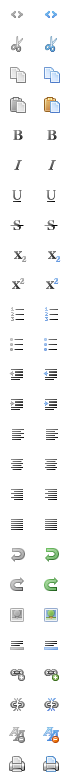
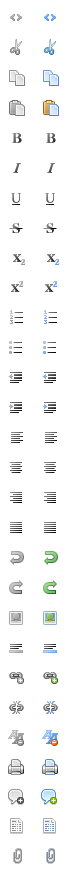
Forgotten commit

Changed region(s): [[0.5882, 0.0, 0.8824, 1.0], [0.1176, 0.0, 0.3824, 1.0]]

diff --git a/assets/javascripts/tinyeditor.js b/assets/javascripts/tinyeditor.js
@@ -34,8 +34,11 @@ var TinyEditor = {};
         unorderedlist: [11, 'Insert Unordered List', 'a', 'insertunorderedlist'],
         unformat: [24, 'Remove Formatting', 'a', 'removeformat'],
         unlink: [23, 'Remove Hyperlink', 'a', 'unlink'],
-        vote: [ 26, 'Vote', 'a', 'vote' ],
-        comments: [ 27, 'Comments', 'insertHtml', '{{comments}}{{comment_form}}' ]
+
+        // This is only for edit wiki
+        comments:   [ 26, 'Comments', 'insertHtml', '{{comments}}{{comment_form}}' ],
+        page:       [ 27, 'Page', 'addWikiLink' ],
+        attachment: [ 28, 'Attachment', 'addAttachment' ]
     },
     offset = -30;
 
@@ -78,6 +81,19 @@ var TinyEditor = {};
                 t.insertHtml(x[3]);
               };
             }
+
+            if (x[2] === 'addAttachment') {
+              return function() {
+                t.addAttachment();
+              };
+            }
+
+            if (x[2] === 'addWikiLink') {
+              return function() {
+                t.addWikiLink();
+              };
+            }
+
             return function () {
                 t.insert(x[4], x[5], x[3]);
             };
@@ -165,7 +181,7 @@ var TinyEditor = {};
                     sel.options[x] = new Option(style[0], style[1]);
                 }
                 h.appendChild(sel);
-            } else if (c[id]) {
+            } else if (c[id] && ((c[id][0] >= 26 && window.editWiki) || (c[id][0] < 26))) {
                 div = document.createElement('div');
                 x = c[id];
                 pos = x[0] * offset;
@@ -270,6 +286,57 @@ var TinyEditor = {};
         if (val !== null && val !== '') {
             this.e.execCommand(cmd, 0, val);
         }
+    };
+    edit.prototype.addWikiLink = function() {
+      /** Show ajax modal with selection of attachments */
+      var html = $('<ul/>');
+      var that = this;
+      var length = window.wikiPages.length;
+
+      for (var index = 0; index < length; index++) {
+        var li = $('<li/>');
+        var a  = $('<a/>').attr('href', '#');
+        var file = window.wikiPages[index];
+        a.html(file);
+        a.on('click', function(evt) {
+          evt.preventDefault();
+          that.e.execCommand('insertText', 0, '[[' + $(this).html() + ']] ');
+          that.el.value = that.e.body.innerHTML;
+          hideModal();
+        });
+        li.append(a);
+        html.append(li);
+      }
+
+      html.prepend('<h3 class="title">' + window.wikipageTitle + '</h3>');
+      $('#ajax-modal').html(html).promise().done(function() {
+        showModal('ajax-modal', '400px');
+      });
+    };
+    edit.prototype.addAttachment = function() {
+      /** Show ajax modal with selection of attachments */
+      var html = $('<ul/>');
+      var that = this;
+
+      $('.icon-attachment').each(function() {
+        var li = $('<li/>');
+        var a  = $('<a/>').attr('href', '#');
+        var file = $(this).html();
+        a.html(file);
+        a.on('click', function(evt) {
+          evt.preventDefault();
+          that.e.execCommand('insertText', 0, 'attachment:' + file);
+          that.el.value = that.e.body.innerHTML;
+          hideModal();
+        });
+        li.append(a);
+        html.append(li);
+      });
+
+      html.prepend('<h3 class="title">' + window.attachmentTitle + '</h3>');
+      $('#ajax-modal').html(html).promise().done(function() {
+        showModal('ajax-modal', '400px');
+      });
     };
     edit.prototype.insertHtml = function (val) {
       if (this.ie) {

diff --git a/assets/javascripts/toolbar.ext.js b/assets/javascripts/toolbar.ext.js
@@ -1,0 +1,73 @@
+jsToolBar.prototype.elements.addAttachment = {
+  type: 'button',
+  title: 'Add files',
+  fn: {
+    wiki: function() {
+      /** Show ajax modal with selection of attachments */
+      var html = $('<ul/>');
+      var that = this;
+
+      $('.icon-attachment').each(function() {
+        var li = $('<li/>');
+        var a  = $('<a/>').attr('href', '#');
+        var file = $(this).html();
+        a.html(file);
+        a.on('click', function(evt) {
+          evt.preventDefault();
+          that.encloseLineSelection('', 'attachment:' + file);
+          hideModal();
+        });
+        li.append(a);
+        html.append(li);
+      });
+
+      html.prepend('<h3 class="title">' + window.attachmentTitle + '</h3>');
+      $('#ajax-modal').html(html).promise().done(function() {
+        showModal('ajax-modal', '400px');
+      });
+    }
+  }
+};
+
+jsToolBar.prototype.elements.addWikiLink = {
+  type: 'button',
+  title: 'Add wiki link',
+  fn: {
+    wiki: function() {
+      /** Show ajax modal with selection of attachments */
+      var html = $('<ul/>');
+      var that = this;
+      var length = window.wikiPages.length;
+
+      for (var index = 0; index < length; index++) {
+        var li = $('<li/>');
+        var a  = $('<a/>').attr('href', '#');
+        var file = window.wikiPages[index];
+        a.html(file);
+        a.on('click', function(evt) {
+          evt.preventDefault();
+          that.encloseLineSelection('', '[[' + $(this).html() + ']]');
+          hideModal();
+        });
+
+        li.append(a);
+        html.append(li);
+      }
+
+      html.prepend('<h3 class="title">' + window.wikipageTitle + '</h3>');
+      $('#ajax-modal').html(html).promise().done(function() {
+        showModal('ajax-modal', '400px');
+      });
+    }
+  }
+};
+
+jsToolBar.prototype.elements.addComment = {
+  type: 'button',
+  title: 'Add comment',
+  fn: {
+    wiki: function() {
+      this.encloseLineSelection('', '{{comments}}{{comment_form}}');
+    }
+  }
+};

diff --git a/assets/stylesheets/toolbar.ext.css b/assets/stylesheets/toolbar.ext.css
@@ -1,0 +1,9 @@
+.jstb_addAttachment {
+  background-image: url(../images/attach.png);
+}
+.jstb_addWikiLink {
+  background-image: url(../images/document.png);
+}
+.jstb_addComment {
+  background-image: url(../images/comment.png);
+}

diff --git a/lib/redmine_tiny_mce/patches/formatter_helper_patch.rb b/lib/redmine_tiny_mce/patches/formatter_helper_patch.rb
@@ -1,0 +1,26 @@
+module RedmineTinyMce
+  module Patches
+    module FormatterHelperPatch
+      def self.included(base)
+        base.class_eval do
+          unloadable
+          base.send(:include, InstanceMethods)
+          alias_method_chain :heads_for_wiki_formatter, :extras
+        end
+      end
+
+      module InstanceMethods
+        def heads_for_wiki_formatter_with_extras
+          value = @heads_for_wiki_formatter_with_extras
+          heads_for_wiki_formatter_without_extras
+          if !value && params[:action] == 'edit' && params[:controller] == 'wiki'
+            content_for :header_tags do
+              javascript_include_tag('toolbar.ext.js', :plugin => :redmine_tiny_mce) +
+              stylesheet_link_tag('toolbar.ext.css', :plugin => :redmine_tiny_mce)
+            end
+          end
+        end
+      end
+    end
+  end
+end

diff --git a/init.rb b/init.rb
@@ -7,6 +7,19 @@
 require 'redmine'
 require 'redmine_tiny_mce'
 
+ActionDispatch::Reloader.to_prepare do
+  require_dependency 'redmine/wiki_formatting/markdown/helper'
+  require_dependency 'redmine/wiki_formatting/textile/helper'
+
+  unless Redmine::WikiFormatting::Markdown::Helper.included_modules.include?(RedmineTinyMce::Patches::FormatterHelperPatch)
+    Redmine::WikiFormatting::Markdown::Helper.send(:include, RedmineTinyMce::Patches::FormatterHelperPatch)
+  end
+
+  unless Redmine::WikiFormatting::Textile::Helper.included_modules.include?(RedmineTinyMce::Patches::FormatterHelperPatch)
+    Redmine::WikiFormatting::Textile::Helper.send(:include, RedmineTinyMce::Patches::FormatterHelperPatch)
+  end
+end
+
 Redmine::Plugin.register :redmine_tiny_mce do
   name 'Redmine TinyMce plugin'
   author 'Strnadj <jan.strnadek@gamil.com>'

diff --git a/lib/redmine_tiny_mce/wiki_formatting/helper.rb b/lib/redmine_tiny_mce/wiki_formatting/helper.rb
@@ -17,7 +17,7 @@ module RedmineTinyMce
               controls:['bold','italic','underline','strikethrough','|','subscript','superscript','|',
                     'orderedlist','unorderedlist','|','outdent','indent','|','leftalign',
                     'centeralign','rightalign','blockjustify','|','unformat','|','undo','redo', 'n',
-                    'font','size','style','|','image','hr','link','unlink', '|', 'print', '|', 'vote', 'comments'],
+                    'font','size','style','|','image','hr','link','unlink', '|', 'print', '|', 'comments', 'page', 'attachment' ],
               footer:true,
               fonts:['Verdana','Arial','Georgia','Trebuchet MS'],
               xhtml:true,

diff --git a/lib/redmine_tiny_mce/hooks/view_wiki_form_bottom.rb b/lib/redmine_tiny_mce/hooks/view_wiki_form_bottom.rb
@@ -1,0 +1,16 @@
+module RedmineTinyMce
+  module Hooks
+    class ViewWikiFormBottom < Redmine::Hook::ViewListener
+      def view_wiki_form_bottom(context={})
+        return context[:controller].send(:render_to_string, {
+          :partial => 'wiki/edit_form_bottom',
+          :locals => {
+            :project => context[:project],
+            :f       => context[:form],
+            :page    => context[:page]
+          }
+        })
+      end
+    end
+  end
+end

diff --git a/lib/redmine_tiny_mce.rb b/lib/redmine_tiny_mce.rb
@@ -4,6 +4,9 @@
 #
 # @author Strnadj <jan.strnadek@gmail.com>
 
+require 'redmine_tiny_mce/hooks/view_wiki_form_bottom'
+require 'redmine_tiny_mce/patches/formatter_helper_patch'
+
 module RedmineTinyMce
   class << self
     def allowed_tags
